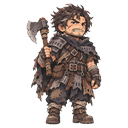
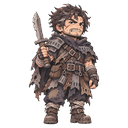
feat: 野盗のユニットの絵を、剣を持つ版に作り直して置き換える（DES-NG-08）
武器を斧から剣に変えたため。人物は最初の版と同じ。台帳の行を書き直し、最初の版のコミットを記録する。

Claude-Session: https://claude.ai/code/session_01Gwc8HGbd5fkwvE2Ki4XAgt

Changed region(s): [[0.1875, 0.0, 0.8125, 0.9688], [0.4062, 0.9688, 0.4375, 1.0]]

diff --git a/docs/03_design/design-ng01.md b/docs/03_design/design-ng01.md
@@ -190,7 +190,7 @@
 | 3 章「浄水施設」 | 施設（浄水施設の地形）の北の部屋にボス（将軍。遺物の槍）と近衛 2。入口の前に 5 体、橋の北の端に 4 体。敵 12 体。勝利条件は既存どおりボス撃破（施設の復旧は物語で描く。規則にしない） |
 | 物語 | 各章の前後。1 章の前は到着の場面（15 段落）。祖母の調合帳・故郷の水・国の命令・護衛との会話。古代都市の滅びの原因は「城壁が内側から食い荒らされたよう」「槍を使うと水路の水が細くなる」というほのめかしだけ。3 章の将は「この槍を振るうたびに足元の石が冷たくなる」と漏らし、勝った後に「次は剣を向けずに話せるといい」と言う（共闘の伏線。企画たたき台 2.4 節） |
 
-**武器の相性（試遊の報告、2026-11-13）**: 初めは、1 章の野盗が斧で、自軍の前衛（ダイン・トーリ）が槍だったため、斧が槍に強い相性で、前衛が不利だった。そこで、**野盗の兵種の武器を、斧から剣に変えた**（`data/alchemy/classes.toml` の `bandit`、`maps.toml` の 1 章の野盗 7 体）。槍は剣に強い。野盗の絵は、まだ斧を持っているので、剣を持つ絵に作り直す（`docs/01_concept/new-game-prompts.md`）。
+**武器の相性（試遊の報告、2026-11-13）**: 初めは、1 章の野盗が斧で、自軍の前衛（ダイン・トーリ）が槍だったため、斧が槍に強い相性で、前衛が不利だった。そこで、**野盗の兵種の武器を、斧から剣に変えた**（`data/alchemy/classes.toml` の `bandit`、`maps.toml` の 1 章の野盗 7 体）。槍は剣に強い。野盗の絵も、剣を持つ絵に作り直した（2026-11-14。`docs/01_concept/new-game-prompts.md`）。
 
 物語は性別を示す言い方（彼・彼女）を使わず、名前で書く。死は重く描かない（1 章の後は、けがで動けない野盗の手当てにとどめた。降伏の規則では仲間も死なない）。2 章の前のハルは、同じ村の別の薬師の家の者で、アオイと顔を見知っている程度の間柄とした。
 

diff --git a/docs/01_concept/new-game-prompts.md b/docs/01_concept/new-game-prompts.md
@@ -127,7 +127,7 @@ a small teenage boy around 16 with untidy messy hair and a shy, cheerful express
 
 敵の肖像は、今は使わない（物語で話すのはドルクとベルナドだけ。必要になったら別に作る）。
 
-### 野盗（`units/enemy_bandit.png`）— **作り直し（2026-11-13、武器を斧から剣に変えたため）**
+### 野盗（`units/enemy_bandit.png`）— **作り直し済み（2026-11-14、武器を斧から剣に変えたため）**
 
 データ上の野盗の武器は、斧から**剣**に変えた（試遊で、斧が槍の前衛に有利で、序盤が難しかったため）。今の絵は斧を持っているので、**剣を持つ姿で作り直す**。人物（顔・装備）は、今の絵と同じにしたいので、**①ダインのユニットの絵（絵柄の見本）、②今の野盗の絵（人物の見本。`art/units/enemy_bandit.png` の元の絵）を添付**し、次の指示文を貼る:
 
